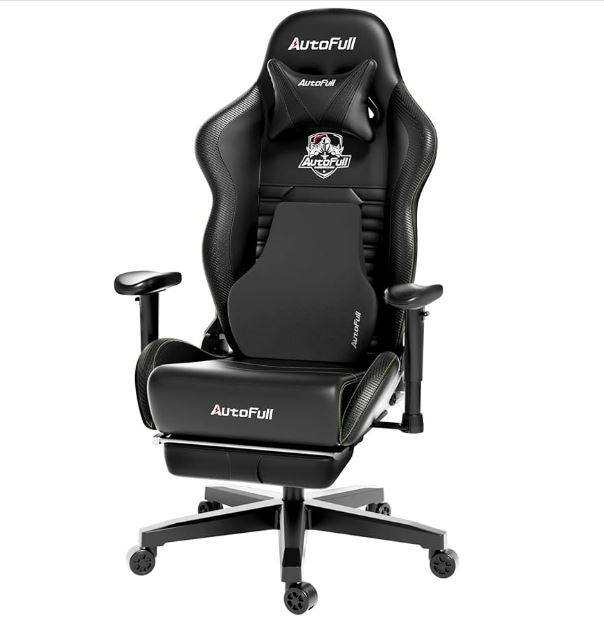
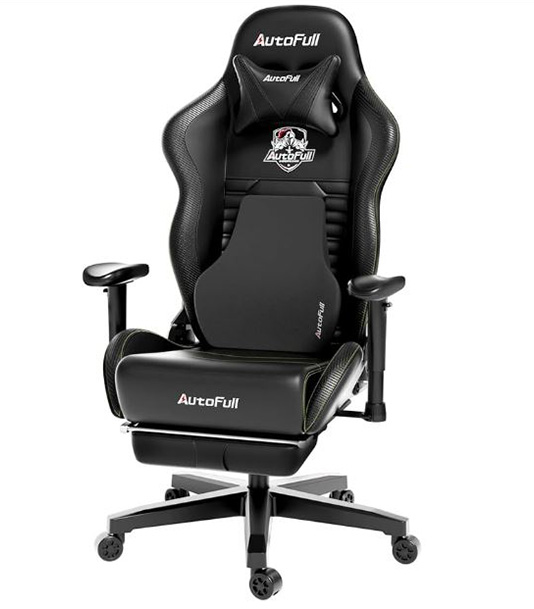
update search
Régularisation des images
Amélioration de la recherche
Ajout des étoiles

Changed region(s): [[0.1498, 0.0, 0.809, 0.9984], [0.4494, 0.312, 0.4794, 0.3432]]

diff --git a/public/assets/js/searchBar.js b/public/assets/js/searchBar.js
@@ -1,6 +1,7 @@
 $(document).ready(function () {
 
     const mediaQueryList = window.matchMedia("(orientation: landscape)");
+    $("#fleche").css('cursor', 'pointer');
     $("#navShop").hide();
     $("#navInfos").hide();
     $("#navSearch").hide();
@@ -32,8 +33,8 @@ $(document).ready(function () {
 
     /*** Fermeture de la barre de recherche */
     function searchClose() {
-        $("#searchBarClose").on("click", function () {
-            $(this).hide();
+        $("#searchBarClose, #fleche").on("click", function () {
+            $("#searchBarClose").hide();
             $("#navSearch").slideUp("fast");
             if (mediaQueryList.matches) {
                 $("#searchBarContainer").hide();
@@ -81,70 +82,87 @@ $(document).ready(function () {
         $("#navShop").slideUp("fast");
         $("#navSearch").slideUp("fast");
     });
-
-})
-
-$('#searchBar').on({
-    keyup: function () {
-        let recherche = $(this).val();
-        afficherProduits(recherche);
-    },
-    focusin: function () {
-        $("#navSearch").slideDown("fast");
-        $("#navShop").slideUp("fast");
-        $("#navInfos").slideUp("fast");
-        $("#searchBarClose").show();
-
-    }
-})
+    $("#fleche").on("click", function(){
+        searchClose();
+    })
 
 
-async function afficherProduits(recherche) {
-    if (recherche != "") {
+    $('#searchBar').on({
+        keyup: function () {
+            let recherche = $(this).val();
+            afficherProduits(recherche);
+        },
+        focusin: function () {
+            $("#navSearch").slideDown("fast");
+            $("#navShop").slideUp("fast");
+            $("#navInfos").slideUp("fast");
+            $("#searchBarClose").show();
 
-        const reponse = await fetch('../controller/php/recherche.php');
-        const products = await reponse.json();
-        const liste = document.createElement('div');
-        liste.classList.add("productsGrid");
-        for (var i = 0; i < products.length; i++) {
-            if (products[i]["name"].toLowerCase().includes(recherche) == true) {
-                // Container
-                const listItem = document.createElement('div');
-                listItem.classList.add("product");
-                // Nom du produit
-                const titleElement = document.createElement('div');
-                listItem.classList.add("productName");
-                titleElement.textContent = products[i]["name"];
-                // Lien du produit
-                const urlElement = document.createElement('a');
-                urlElement.href = `/produit?id=${products[i]["product_id"]}`;
-                // Image du produit
-                console.log(urlElement.href);
-                const imageElement = document.createElement('img');
-                const productImages = JSON.parse(products[i]["images"]);
-                const imageUrl = productImages["main_image"];
-                imageElement.src = imageUrl;
-                imageElement.alt = products[i]["name"];
-                // Prix du produit
-                const priceElement = document.createElement('div');
-                priceElement.classList.add("productPrice");
-                priceElement.textContent = products[i]["price"];
-                // Note du produit
-                const ratingElement = document.createElement('span');
-                ratingElement.classList.add("productPrice");
-                ratingElement.textContent = parseFloat(products[i]["price"]).toFixed(1);
+        }
+    })
 
-                // Ajouter les éléments à la liste
-                listItem.appendChild(urlElement);
-                urlElement.appendChild(imageElement);
-                listItem.appendChild(titleElement);
-                listItem.appendChild(ratingElement);
-                liste.appendChild(listItem);
+
+    async function afficherProduits(recherche) {
+        const arrow = document.createElement('div');
+        arrow.id = "fleche"
+        arrow.textContent = "▲";
+        if (recherche != "") {
+
+            const reponse = await fetch('../controller/php/recherche.php');
+            const products = await reponse.json();
+            const liste = document.createElement('div');
+            liste.classList.add("productsGrid");
+            for (var i = 0; i < products.length; i++) {
+                if (products[i]["name"].toLowerCase().includes(recherche) == true) {
+                    // Container
+                    const listItem = document.createElement('div');
+                    listItem.classList.add("product");
+                    // Nom du produit
+                    const titleElement = document.createElement('div');
+                    titleElement.classList.add("productName");
+                    titleElement.textContent = products[i]["name"];
+                    // Lien du produit
+                    const urlElement = document.createElement('a');
+                    urlElement.href = `/produit?id=${products[i]["product_id"]}`;
+                    // Image du produit
+                    console.log(urlElement.href);
+                    const imageElement = document.createElement('img');
+                    const productImages = JSON.parse(products[i]["images"]);
+                    const imageUrl = productImages["main_image"];
+                    imageElement.src = imageUrl;
+                    imageElement.alt = products[i]["name"];
+                    // Prix du produit
+                    const divElement = document.createElement('div');
+                    divElement.classList.add("productDiv");
+                    const priceElement = document.createElement('div');
+                    priceElement.classList.add("productPrice");
+                    priceElement.textContent = products[i]["price"] + " €";
+                    // Note du produit
+                    const ratingElement = document.createElement('div');
+                    ratingElement.classList.add("productRate");
+                    ratingElement.innerHTML = parseFloat(products[i]["average_rating"]).toFixed(1) + "<img src='./assets/img/star.png'/>";
+
+                    // Ajouter les éléments à la liste
+                    listItem.appendChild(urlElement);
+                    urlElement.appendChild(imageElement);
+                    urlElement.appendChild(titleElement);
+                    urlElement.appendChild(divElement);
+                    divElement.appendChild(priceElement);
+                    divElement.appendChild(ratingElement);
+                    liste.appendChild(listItem);
+                };
             };
-        };
-        $("#navSearch").html(liste);
-    } else {
-        $("#navSearch").html("Aucun résultat...");
+            $("#navSearch").html(liste);
+            $("#navSearch").append(arrow);
+            $("#fleche").css('cursor', 'pointer');
+            searchClose()
+        } else {
+            $("#navSearch").html("Aucun résultat...");
+            $("#navSearch").append(arrow);
+            $("#fleche").css('cursor', 'pointer');
+            searchClose()
+        }
     }
-}
 
+
+})

diff --git a/public/assets/css/header.css b/public/assets/css/header.css
@@ -220,9 +220,24 @@
             color: #482664;
         }
     }
+    #fleche{
+        width: fit-content;
+        text-align: center;
+        background-color: black;
+        color: white;
+        padding:0.5em 6em;
+        margin: 2em auto 0 auto;
+        border-radius: 20px 20px 0 0;
+    }
     .navContainer:last-child{
         border-right: none;
     }
+}
+
+#navSearch{
+    padding: 4em 5vw 0 5vw;
+    box-shadow: 0 0 500px rgb(0, 0, 0);
+    text-align: center;
 }
 
 #navShop{
@@ -240,10 +255,11 @@
 @media (orientation: portrait) {
     #navContainer {
         grid-template-columns: 1fr;
-        position: absolute;
+        position: fixed;
         top: 0;
         left: 0;
         padding: 0 5vw;
+        z-index: 50;
         
         .navLeft{
             display: none;
@@ -279,6 +295,7 @@
         background-color: black;
         align-items: center;
         padding: 0;
+        z-index: 50;
         box-shadow: 0 0 20px rgb(0, 0, 0, 0.5);
         transition: all 200ms;
 
@@ -335,8 +352,11 @@
         }
     
     }
-    #navShop, #navInfos, #navSearch{
+    #navShop, #navInfos{
         padding: 2vh 5vw ;
+    }
+    #navSearch{
+        padding: 2vh 5vw 0 5vw ;
     }
 
 }

diff --git a/public/assets/css/products.css b/public/assets/css/products.css
@@ -22,7 +22,7 @@
         .productName {
             color: black;
             font-weight: 500;
-            padding: 0.5em 0;
+            margin: 0.5em 0;
         }
 
         .productPrice {
@@ -34,9 +34,17 @@
 
         .productRate{
             text-align: right;
+            color: #482664;
+            font-weight: bold;
+            img{
+                float: right;
+                width: 1em;
+                height: 1em;
+                margin-left: 0.2em;
+            }
         }
 
-        > div:nth-child(3){
+        .productDiv{
             display: grid;
             grid-template-columns: 1fr 1fr;
         }

diff --git a/public/assets/css/banner.css b/public/assets/css/banner.css
@@ -5,7 +5,6 @@
     position: relative;
     box-shadow: 0 0 20px rgb(0, 0, 0, 0.5);
     background-color: black;
-    border-bottom: 5px solid black;
 
 
     .slideButton {
@@ -42,6 +41,7 @@
         position: absolute;
         left: 0;
         top:0;
+        border-bottom: 5px solid black;
 
         aside {
             display: block;

diff --git a/templates/header.php b/templates/header.php
@@ -103,6 +103,7 @@ session_start();
         <div class="navContainer">
             <p>Aucun résultat...</p>
         </div>
+        <div id="fleche">▲</div>
     </nav>
 
 
